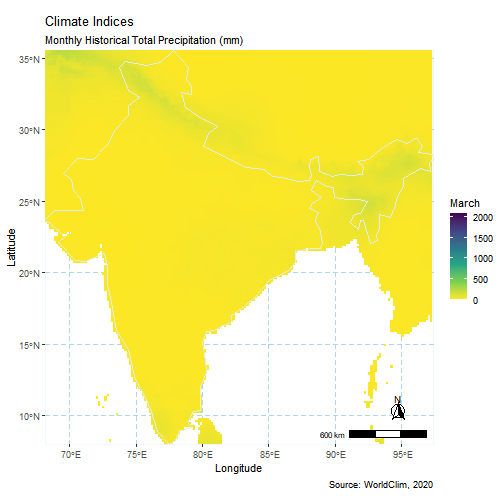
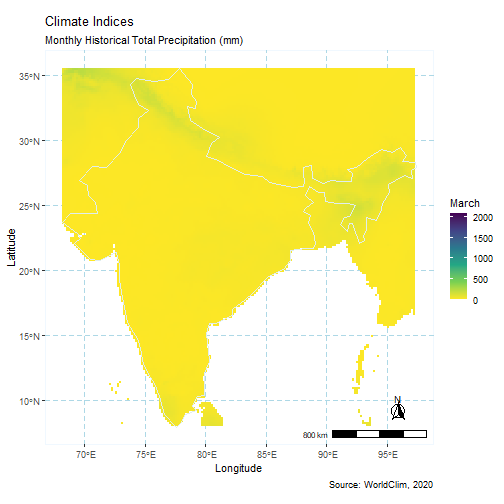
climate indices post revision

diff --git a/content/post/2021-07-14-climate-indices-gif/index.md b/content/post/2021-07-14-climate-indices-gif/index.md
@@ -19,7 +19,7 @@ projects: []
 
 # Downloanding the data sets
 
-The data used for this animation comes from the WorldClim project, and can be retrieved [here](https://www.worldclim.org/data/monthlywth.html). Note that one of the authors of the project is professor Robert J. Hijmans, he is also responsible for the [raster package](https://cran.r-project.org/web/packages/raster/index.html).
+The data used here comes from the WorldClim project, and can be retrieved [here](https://www.worldclim.org/data/monthlywth.html). Note that one of the authors of the project is professor Robert J. Hijmans, he is also responsible for the [raster package](https://cran.r-project.org/web/packages/raster/index.html).
 
 Of course, some of the WorldClim project data is available through the raster package...
 
@@ -51,30 +51,32 @@ Of course, some of the WorldClim project data is available through the raster pa
 ## max values :   885,   736,   719,   820,   955,  1850,  2088,  1386,   904,    980,    893,    914
 ```
 
-The `getData` function, with the parameters used above, downloads a RasterStack with 12 layers!
+The `getData` function, with the parameters used in the chunk above, downloads a RasterStack with 12 layers!
 
-From the [documentation](https://www.worldclim.org/data/worldclim21.html), one can see that these data sets (available through the package) consists of monthly averages for the entire period 1970 to 2000.
+From the [documentation](https://www.worldclim.org/data/worldclim21.html):
 
-*The data is available at the four spatial resolutions, between 30 seconds (\~1 km2) to 10 minutes (\~340 km2). Each download is a "zip" file containing 12 GeoTiff (.tif) files, one for each month of the year (January is 1; December is 12).* (Fick, 2017)
+*"The data is available at the four spatial resolutions, between 30 seconds (\~1 km2) to 10 minutes (\~340 km2). Each download is a "zip" file containing 12 GeoTiff (.tif) files, one for each month of the year (January is 1; December is 12)."* (Fick, 2017)
 
-Note that for the gif at the beginning of this post, we used the per month data sets, available at <https://www.worldclim.org/data/monthlywth.html>. These zip files contain 12 raster images for each year, only at 2.5 minutes (\~21 km2) spatial resolution.
+Note that, for the gif at the beginning of this post, we used the per month data sets available at <https://www.worldclim.org/data/monthlywth.html>. 
 
 <br>
 
-A simple plot from one of the layers:
+Let's visualize one of the layers:
 
 
 ```r
     library(raster, quietly = TRUE)
 
-    raster::plot(wc_prec_series$prec7)
+    raster::plot(wc_prec_series$prec7, 
+                 
+                 main = "Fig.1 Monthly Precipitation in July")
 ```
 
 <img src="{{< blogdown/postref >}}index_files/figure-html/unnamed-chunk-2-1.png" width="672" />
 
-We can see from the values parameter that some regions achived more than 1500 mm average precipitation in July (*prec7*) for the entire period 1970 to 2000.
+We can see, from the values parameter, that some regions achieved more than 1500 mm average precipitation in July (*prec7*) for the entire period 1970 to 2000.
 
-Note that he raster package also comes with a `animate` function built in:
+Note that the raster package also comes with a `animate` function built in:
 
 
 ```r
@@ -82,14 +84,12 @@ Note that he raster package also comes with a `animate` function built in:
                     
                     n = 1, # number of loops
                     
-                    main = paste("Average Precipitation for", month.name)) # title for each layer
+                    main = paste("Monthly Precipitation for", month.name)) # title for each layer
 ```
 
-The `animate` function takes a RasterStack or a RasterBrick and generates a gif using each layer as frames.
+The `animate` function takes a RasterStack or a RasterBrick and generates a gif using each layer as frames. Even though this is a very easy to use function, it lacks more options for editing and exporting.
 
-Even though this is a very easy to use function, it lacks more options for editing and exporting.
-
-So, now that we have our data, we might want to choose a location of interest (loi), e.g. a country. For that we use the [`rnaturalearth`](https://www.rdocumentation.org/packages/rnaturalearth/versions/0.1.0) package.
+So, now that we have our data, we might want to choose a location of interest (loi), e.g., a country. For that, we use the [`rnaturalearth`](https://www.rdocumentation.org/packages/rnaturalearth/versions/0.1.0) package.
 
 
 ```r
@@ -102,11 +102,11 @@ We choose India that has accentuated dry and wet seasons, for better contrast.
 
 # Crop to extent
 
-The next step consists of cropping the data to the specified loi, using the shape extent as reference.
+The next step consists of cropping the data to the specified *loi*, using the shape extent as reference.
 
 
 ```r
-    extent(india)
+extent(india)
 ```
 
 ```
@@ -119,11 +119,15 @@ The next step consists of cropping the data to the specified loi, using the shap
 
 ```r
     india_wc_prec <- crop(wc_prec_series, india)
-    
-    plot(india_wc_prec)
 ```
 
-<img src="{{< blogdown/postref >}}index_files/figure-html/unnamed-chunk-5-1.png" width="672" />
+
+
+```r
+plot(india_wc_prec, main = "Fig.2 Monthly Precipitation - India")
+```
+
+<img src="{{< blogdown/postref >}}index_files/figure-html/unnamed-chunk-6-1.png" width="672" />
 
 # Transform to tables
 
@@ -139,6 +143,21 @@ In order to use `ggplot`, we need to transform the raster layers to tables.
 ## The following object is masked from 'package:raster':
 ## 
 ##     extract
+```
+
+
+
+```r
+  require(tidyr)
+
+  rasterStack_tables <- list()
+                
+        for (i in seq(india_wc_prec@data@nlayers)) {
+                    
+                    rasterStack_tables[[i]] <- as.data.frame(india_wc_prec[[i]], xy = TRUE) %>%
+                      
+                      drop_na()
+        }  
 ```
 
 Also, a few auxiliary lists are used to indicate the directory to save each frame, the dates to indicate in the title, and the file names in order.
@@ -164,7 +183,7 @@ Also, a few auxiliary lists are used to indicate the directory to save each fram
                       ".png")
 ```
 
-One last step, consists of binding the tables created from each layer in order to calculate basic summary statistics of the entire data set. Specifically, we wish to calculate the maximum precipitation value, to set the legend scale correctly. Otherwise the scale will vary accordingly to the maximum value of each month, and that gives a false impression since we want to visualize the variation throughout the year.
+One last step before plotting consists of binding the tables created from each layer in order to calculate basic summary statistics of the entire data set. Specifically, we wish to calculate the maximum precipitation value to set the legend scale correctly. Otherwise, the scale will vary accordingly to the maximum value of each month, and that gives a false contrast (see Fig.2).
 
 
 ```r
@@ -202,9 +221,9 @@ We plot the data filling each pixel with the third column of each table. The fir
           
           geom_sf(color = "azure2", fill = 'transparent', data = india) +
           
-          scale_fill_viridis_c(dates[i], direction = -1, limits = c(0, 2088.00)) +
+          scale_fill_viridis_c(dates[i], direction = -1, limits = c(0, 2088.00)) + # set scale
           
-          coord_sf(expand = FALSE) +
+          coord_sf(expand = TRUE) +
           
           labs(x = 'Longitude', y = 'Latitude',
                title = "Climate Indices",
